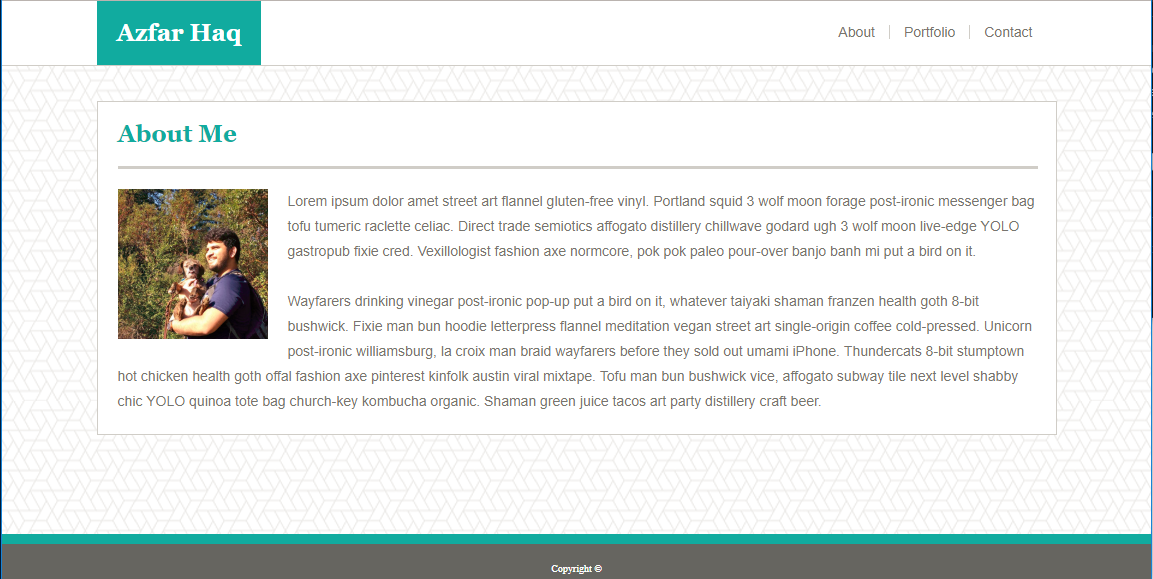
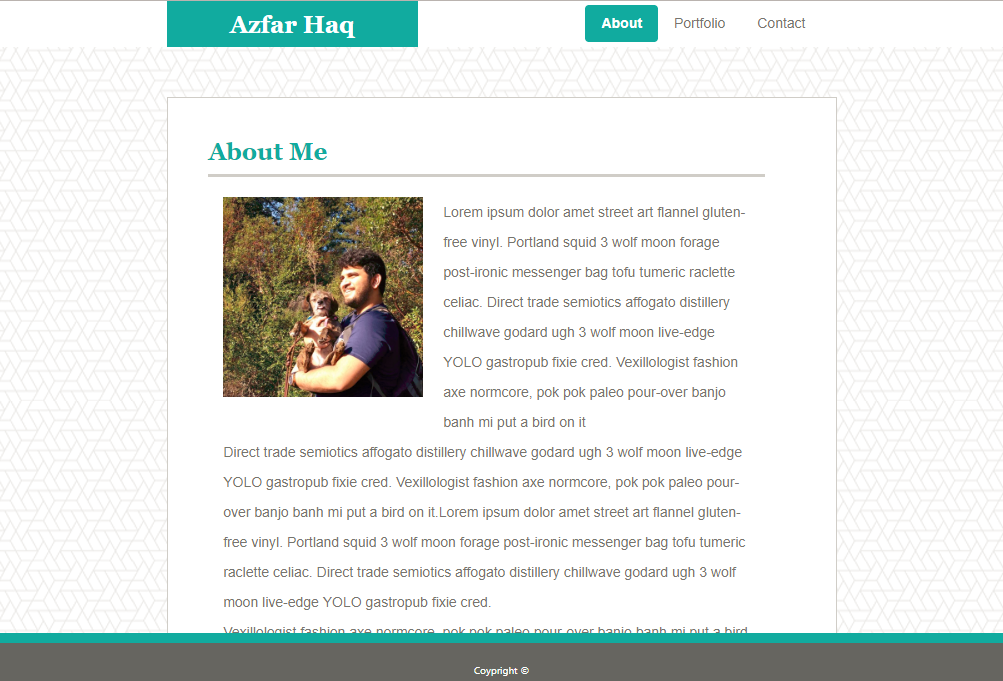
Complete content

diff --git a/index.html b/index.html
@@ -12,7 +12,7 @@
 
 </head>
 <body>
-    <nav class="navbar bg-white">
+    <nav class="navbar sticky-top bg-white">
             
             <div class="col-md-2"></div>
 
@@ -38,22 +38,33 @@
 
             <div class="col-md-8 col-sm-10 col-10 content-container">
                 <div class="row">
+
                     <div class="col"></div>
-                    <div class="col-md-10 col-sm-10 col-10 content-head">
-                        <h1> About Me</h1>
 
-                        <img src="assets/images/Man w Dog.jpg" alt="Man with Dog" id="profilepic">
+                    <div class="col-md-10 col-sm-10 col-10 content-body">
+                        
+                        <div class="row col content-head">
 
-                        <p>Lorem ipsum dolor amet street art flannel gluten-free vinyl. Portland squid 3 wolf moon forage post-ironic messenger bag tofu tumeric raclette celiac. Direct trade semiotics affogato distillery chillwave godard ugh 3 wolf moon live-edge YOLO gastropub fixie cred. Vexillologist fashion axe normcore, pok pok paleo pour-over banjo banh mi put a bird on it.</p>
-                        <br>
-                        <p>Wayfarers drinking vinegar post-ironic pop-up put a bird on it, whatever taiyaki shaman franzen health goth 8-bit bushwick. Fixie man bun hoodie letterpress flannel meditation vegan street art single-origin coffee cold-pressed. Unicorn post-ironic williamsburg, la croix man braid wayfarers before they sold out umami iPhone. Thundercats 8-bit stumptown hot chicken health goth offal fashion axe pinterest kinfolk austin viral mixtape. Tofu man bun bushwick vice, affogato subway tile next level shabby chic YOLO quinoa tote bag church-key kombucha organic. Shaman green juice tacos art party distillery craft beer.</p>
-            
+                            <h1> About Me</h1>
+
+                        </div>
+
+                        <div class="row col">
+
+                            <p id="bio">
+                            <img src="assets/images/Man w Dog.jpg" alt="Man with Dog" class="img-responsive" id="profilepic">
+                            Lorem ipsum dolor amet street art flannel gluten-free vinyl. Portland squid 3 wolf moon forage post-ironic messenger bag tofu tumeric raclette celiac. Direct trade semiotics affogato distillery chillwave godard ugh 3 wolf moon live-edge YOLO gastropub fixie cred. Vexillologist fashion axe normcore, pok pok paleo pour-over banjo banh mi put a bird on it
+                            <br> Direct trade semiotics affogato distillery chillwave godard ugh 3 wolf moon live-edge YOLO gastropub fixie cred. Vexillologist fashion axe normcore, pok pok paleo pour-over banjo banh mi put a bird on it.Lorem ipsum dolor amet street art flannel gluten-free vinyl. Portland squid 3 wolf moon forage post-ironic messenger bag tofu tumeric raclette celiac. Direct trade semiotics affogato distillery chillwave godard ugh 3 wolf moon live-edge YOLO gastropub fixie cred.
+                            <br> Vexillologist fashion axe normcore, pok pok paleo pour-over banjo banh mi put a bird on it.Lorem ipsum dolor amet street art flannel gluten-free vinyl. Portland squid 3 wolf moon forage post-ironic messenger bag tofu tumeric raclette celiac. Direct trade semiotics affogato distillery chillwave godard ugh 3 wolf moon live-edge YOLO gastropub fixie cred. Vexillologist fashion axe normcore, pok pok paleo pour-over banjo banh mi put a bird on it.</p>
+                                                            
+                        </div>
+
                     </div>
+
                     <div class="col"></div>
+
                 </div>
-                <div class="row">
-                    
-                </div>
+                <div class="row"></div>
             </div>
             
             <div class="col-md-2 col-sm-1 col-1"></div>

diff --git a/portfolio.html b/portfolio.html
@@ -34,20 +34,84 @@
     <div class="container-fluid">
         
         <div class="row">
+
             <div class="col-md-2 col-sm-1 col-1"></div>
 
             <div class="col-md-8 col-sm-10 col-10 content-container">
-                <div class="row">
-                    <div class="col"></div>
-                    <div class="col-md-10 col-sm-10 col-10 content-head">
-                        <h1> Portfolio </h1>
-                        
-                    </div>
-                    <div class="col"></div>
-                </div>
+
                 <div class="row">
                     
+                    <div class="col"></div>
+
+                    <div class="col-md-10 col-sm-10 col-10 content-body">
+
+                        <div class="row col content-head">
+
+                            <h1>Portfolio</h1>
+
+                        </div>
+
+                        <div class="row col-12">
+
+                            <div class="row">
+
+                                <div class="col-1"></div>
+                                <div class="col-md-4 portfolio-item">
+                                        <img src="assets/images/640x480.png" alt="Hangman" class="portfolio-pic">
+        
+                                        <h3>Hangman</h3>                                
+                                </div>
+                                <div class="col-md-2"></div>
+                                <div class="col-md-4 portfolio-item">
+                                        <img src="assets/images/640x480.png" alt="RPG" class="portfolio-pic">
+        
+                                        <h3>RPG Game</h3> 
+                                </div>
+                                <div class="col-1"></div>
+
+                            </div>
+
+                            <div class="row">
+
+                                <div class="col-1"></div>
+                                <div class="col-md-4 portfolio-item">
+                                        <img src="assets/images/640x480.png" alt="Trivia" class="portfolio-pic">
+        
+                                        <h3>Trivia</h3>                                
+                                </div>
+                                <div class="col-md-2"></div>
+                                <div class="col-md-4 portfolio-item">
+                                        <img src="assets/images/640x480.png" alt="Info Widget" class="portfolio-pic">
+        
+                                        <h3>Info Widget</h3> 
+                                </div>
+                                <div class="col-1"></div>
+
+                            </div>
+
+                            <div class="row" >
+
+                                <div class="col-1"></div>
+                                <div class="col-md-4 portfolio-item">
+                                    <img src="assets/images/640x480.png" alt="Rock Paper Scissors" class="portfolio-pic">
+        
+                                    <h3>Rock Paper Scissors</h3>                                
+                                </div>
+                                <div class="col-md-2"></div>                               
+                                <div class="col-md-4"></div>
+                                <div class="col-1"></div>
+
+                            </div>
+                            
+                        </div>
+
+                    </div>
+
+                    <div class="col"></div>
+
                 </div>
+
+                <div class="row"></div>
             </div>
             
             <div class="col-md-2 col-sm-1 col-1"></div>

diff --git a/contact.html b/contact.html
@@ -4,7 +4,7 @@
     <meta charset="UTF-8">
     <meta name="viewport" content="width=device-width, initial-scale=1.0">
     <meta http-equiv="X-UA-Compatible" content="ie=edge">
-    <title>AEH | About Me</title>
+    <title>AEH | Contact</title>
 
     <link rel="stylesheet" href="https://stackpath.bootstrapcdn.com/bootstrap/4.1.3/css/bootstrap.min.css" integrity="sha384-MCw98/SFnGE8fJT3GXwEOngsV7Zt27NXFoaoApmYm81iuXoPkFOJwJ8ERdknLPMO" crossorigin="anonymous">
     
@@ -34,19 +34,47 @@
     <div class="container-fluid">
         
         <div class="row">
+
             <div class="col-md-2 col-sm-1 col-1"></div>
 
             <div class="col-md-8 col-sm-10 col-10 content-container">
+
                 <div class="row">
+
                     <div class="col"></div>
-                    <div class="col-md-10 col-sm-10 col-10 content-head">
-                        <h1> Contact </h1>
+
+                    <div class="col-md-10 col-sm-10 col-10 content-body">
+                        
+                        <div class="row col content-head">
+
+                            <h1> Contact </h1>
+
+                        </div>
+
+                        <div class="row col">
+                            <form>
+                                <div class="form-group">
+                                    <label for="formGroupName">Name</label>
+                                    <input type="text" class="form-control" id="formGroupName" placeholder="John Doe">
+                                </div>
+                                <div class="form-group">
+                                    <label for="formEmailAddress">Email address</label>
+                                    <input type="email" class="form-control" id="formEmailAddress" placeholder="name@example.com">
+                                </div>
+                                <div class="form-group">
+                                    <label for="formTextBox">Message</label>
+                                    <textarea class="form-control" id="formTextBox" rows="3"></textarea>
+                                </div>
+                            </form>
+                        </div>
+
                     </div>
+
                     <div class="col"></div>
+
                 </div>
-                <div class="row">
-                    
-                </div>
+
+                <div class="row"></div>
             </div>
             
             <div class="col-md-2 col-sm-1 col-1"></div>

diff --git a/assets/css/style.css b/assets/css/style.css
@@ -1,3 +1,7 @@
+html {
+    min-width: 300px;
+}
+
 body {
     background-image: url("../images/what-the-hex/what-the-hex.png");
 }
@@ -46,7 +50,7 @@ a:hover {
 
 .content-container {
     margin-top: 50px;
-    margin-bottom: 50px;
+    margin-bottom: 80px;
     background: #ffffff;
     border: 1px #cccccc solid;
 }
@@ -71,6 +75,53 @@ a:hover {
     margin-bottom: 20px;
 }
 
+.content-body {
+    background: #ffffff;
+    color:#4aaaa5;
+    float: left;
+    padding: 20px 0px 0px 0px;
+    margin-bottom: 20px;
+}
+
+#profilepic {
+    float: left;
+    height: 200px;
+    width: auto;
+    margin: 0px 20px 20px 0px;
+}
+
+#bio {
+    float: left;
+    line-height: 30px;
+}
+
+form {
+    width: 100%;
+}
+
+#formTextBox {
+    height: 250px;
+}
+
+.portfolio-pic {
+
+    padding: 5px 0px 10px 5px;
+    width: 100%;
+    height: auto;
+}
+
+h3 {
+    background: #4aaaa5;
+    color: white;
+    font-size: 15px;
+    text-align: center;
+    padding: 2px;
+    position: absolute;
+    bottom: 20%;
+    left: 0;
+    right: 0;
+}
+
 .footer {
     position: fixed;
     bottom: 0;
@@ -88,10 +139,6 @@ a:hover {
 
 @media only screen and (max-width: 768px) {
 
-    .navbar {
-        position
-    }
-   
     .nav {
         float: none;
         margin-right:auto;
@@ -99,7 +146,24 @@ a:hover {
         width:fit-content;
     }
 
-    .footer {
-        position: relative;
+    .content-container {
+        margin-top: 30px;
+        background: #ffffff;
+        border: 1px #cccccc solid;
+    }
+
+    #profilepic {
+        display: block;
+        width: 95%;
+        height: auto;
+        float: none;
+        margin-left: auto;
+        margin-right: auto;
+        align-content: center;
+    }
+
+    h3 {
+        font-size: 22px;
+        padding: 10px;
     }
 }

diff --git a/README.md b/README.md
@@ -1,0 +1,60 @@
+# Boostrap-Portfolio
+Recreating the mobile website primarily using BootStrap.
+
+# Link to Deployed Site
+[Basic-Portfolio](https://aehaq.github.io/Bootstrap-Portfolio)
+
+# Images
+![About](assets/images/screenshots/about-me.PNG)
+![Portfolio](assets/images/screenshots/contact.PNG)
+![Contact](assets/images/screenshots/portfloio.PNG)
+
+# Technology Used
+- html
+- CSS
+- CSS (Bootstrap)
+
+# Code Snippets
+```
+<div class="container-fluid">
+        
+        <div class="row">
+            <div class="col-md-2 col-sm-1 col-1"></div>
+
+            <div class="col-md-8 col-sm-10 col-10 content-container">
+                <div class="row">
+
+                    <div class="col"></div>
+
+                    <div class="col-md-10 col-sm-10 col-10 content-body">
+                        
+                        <!-- Unique Page Content in Here -->
+
+                    </div>
+
+                    <div class="col"></div>
+
+                </div>
+                <div class="row"></div>
+            </div>
+            
+            <div class="col-md-2 col-sm-1 col-1"></div>
+
+        </div>
+
+    </div>
+```
+- Above is an example of a bootstrap grid nested within another bootstrap grid. This served as the main box within which every pages unique content was stored. These grids also adjust based on the size of the browser or device used to view the website. 
+
+# Learning Points
+- Creating a Navbar in BootStrap, using classes to denote "Active" links.
+- Using the bootstrap grid system.
+- Creating varying column organizations for different media sizes.
+- Nesting grids within grids.
+- Creating a secondary stylesheet to further customize existing bootstrap classes.
+
+# Author 
+Azfar Haq - [GitHub](https://github.com/aehaq)
+
+# License
+Standard MIT License
